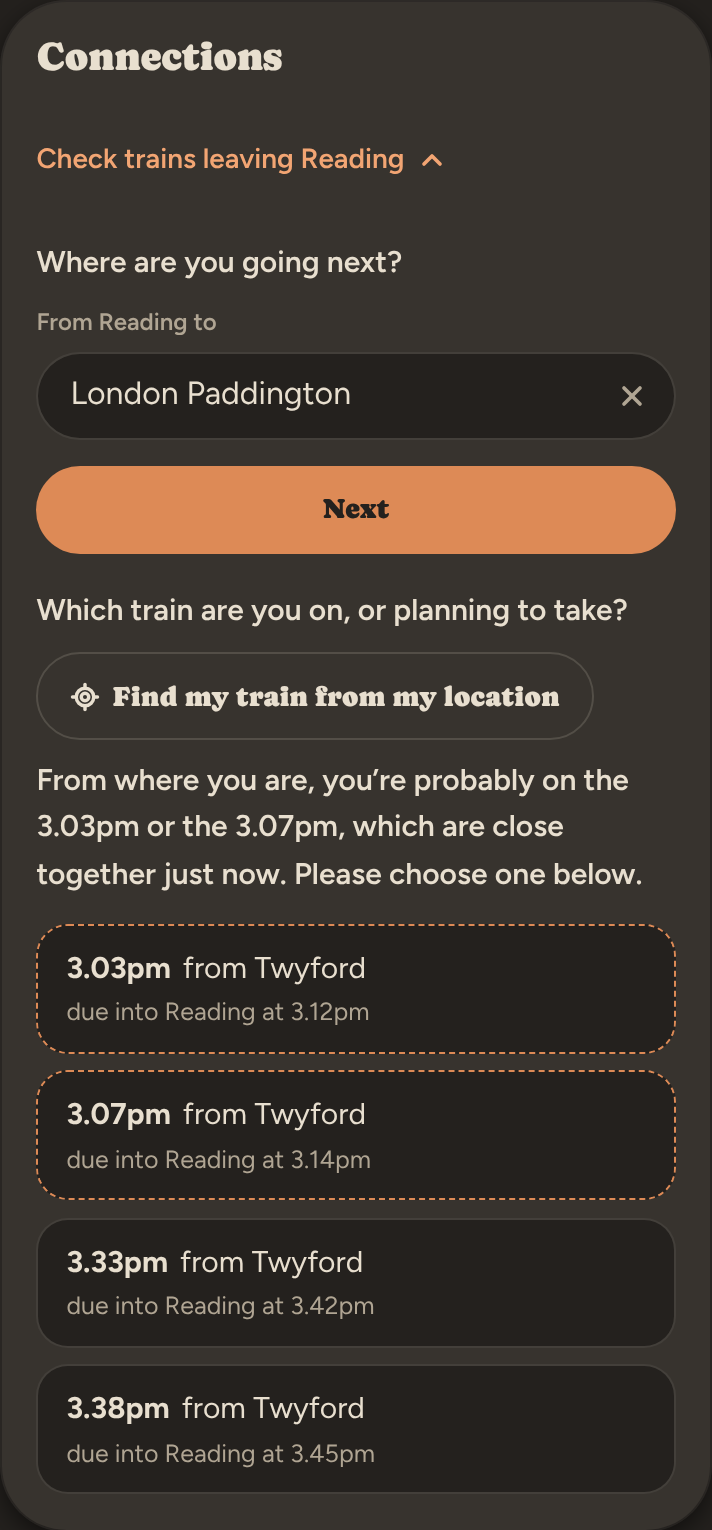
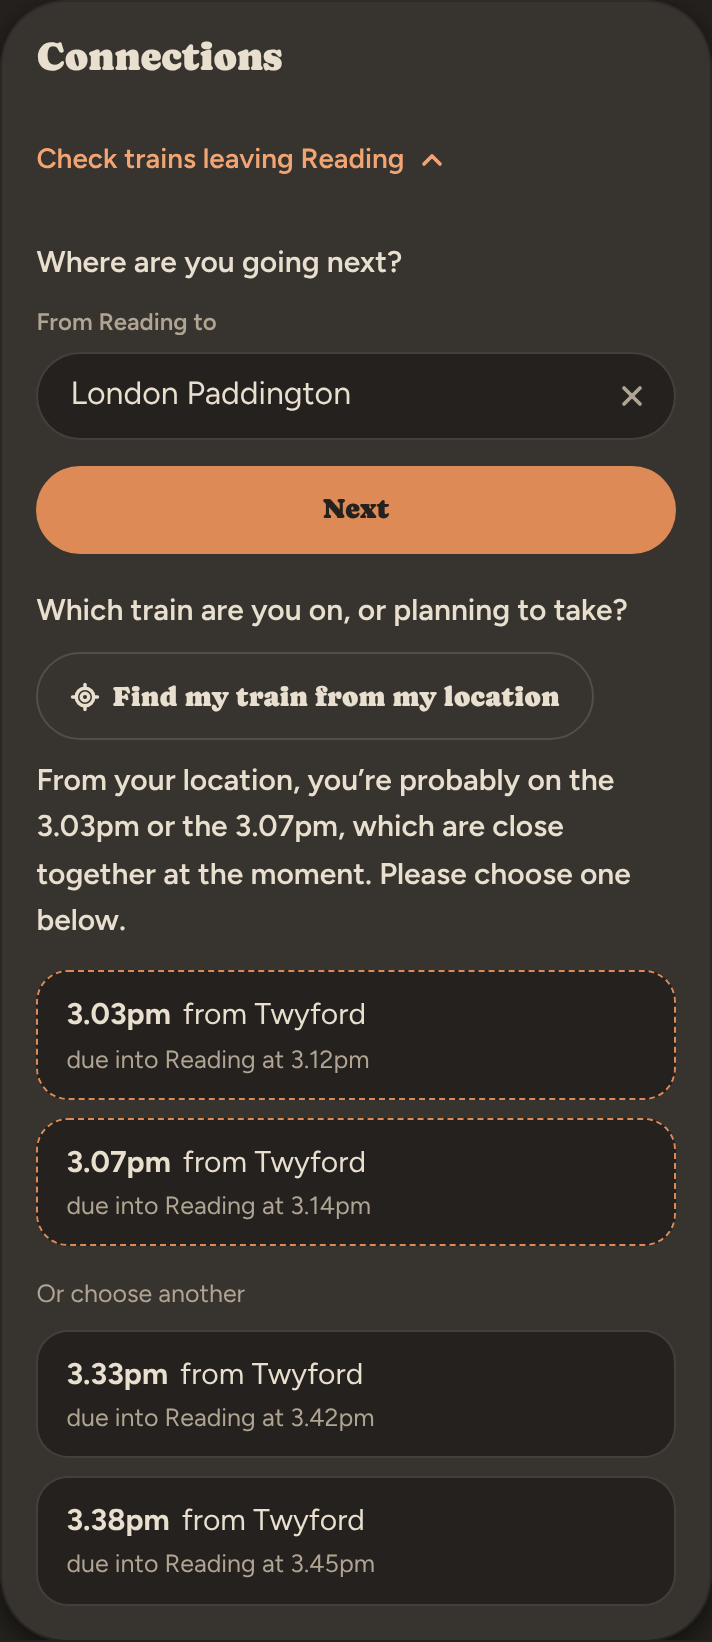
"Find my train from my location": John's wording, the trains found listed first, an About paragraph
Claude-Session: https://claude.ai/code/session_01BsvHLJXmw3oprEBv3k7dfG

diff --git a/src/components/FindMyTrain.tsx b/src/components/FindMyTrain.tsx
@@ -2,7 +2,9 @@
 // button at the top of the train list in Connections and Exits that narrows down which train
 // you're on. The sums are in lib/findTrain.ts; your position is used only here, on the device,
 // and never sent anywhere. Shown only when at least one train in the list has left A (where none
-// has, where you are can't tell them apart). The wording here is Claude's draft, for John.
+// has, where you are can't tell them apart). The wording: Claude's drafts with John's changes
+// (November 26th 2026; design/find-my-train/README.md). The trains found are moved to the top of
+// the list, with "Or choose another" above the rest (John).
 import { useState } from 'react'
 import { diff, isTime, type Analysis, type Service } from '../lib/analyse.ts'
 import { findTrain, ukMinutes, type Found, type Positions } from '../lib/findTrain.ts'
@@ -23,19 +25,19 @@ const gone = (now: string, t: Service) => t.etd !== 'Delayed' && diff(now, isTim
 function said(st: State, a: Analysis, trains: Service[]): string | null {
   const time = (id: string | null) => t12(trains.find((t) => t.id === id)?.std ?? '')
   if (st.s === 'denied') return 'Trainchecker wasn’t allowed to see where you are. You can change that in your browser’s settings, or choose your train below.'
-  if (st.s === 'lost') return 'Your location couldn’t be found just now. Please try again, or choose your train below.'
+  if (st.s === 'lost') return 'Your location couldn’t be found. Please try again, or choose your train below.'
   if (st.s !== 'done') return null
   const f = st.found
   switch (f.kind) {
-    case 'one': return `From where you are, you’re probably on the ${time(f.id)}.`
+    case 'one': return `From your location, you’re probably on the ${time(f.id)}.`
     case 'two': {
       // In time order, as the list is ("the 3.03pm or the 3.07pm"), not nearer first.
       const [p, q] = [...f.ids].sort((x, y) => diff(trains.find((t) => t.id === y)!.std, trains.find((t) => t.id === x)!.std))
-      return `From where you are, you’re probably on the ${time(p)} or the ${time(q)}, which are close together just now. Please choose one below.`
+      return `From your location, you’re probably on the ${time(p)} or the ${time(q)}, which are close together at the moment. Please choose one below.`
     }
-    case 'atA': return f.next ? `You seem to be at ${a.from} still, so here’s the next train, the ${time(f.next)}.` : `You seem to be at ${a.from} still. Please choose the train you’re planning to take.`
-    case 'far': return `You don’t seem to be near the line from ${a.from} to ${a.to} just now, so please choose your train below.`
-    case 'none': return 'None of these trains seems to be near you just now, so please choose yours below.'
+    case 'atA': return f.next ? `You seem to be at the station still, so here’s the next train, the ${time(f.next)}.` : 'You seem to be at the station still. Please choose the train you’re planning to take.'
+    case 'far': return `You don’t seem to be near the line from ${a.from} to ${a.to} at the moment, so please choose your train below.`
+    case 'none': return 'None of these trains seems to be near you at the moment, so please choose yours below.'
   }
 }
 
@@ -72,7 +74,7 @@ export function FindMyTrain({ a, trains, onFound }: { a: Analysis; trains: Servi
         <Icon name="locate" /> Find my train from my location
       </button>
       {st.s === 'idle' && <p className="small muted">Your location stays on this device.</p>}
-      {st.s === 'busy' && <p className="small muted" role="status"><span className="spinner" aria-hidden="true"></span>Finding where you are…</p>}
+      {st.s === 'busy' && <p className="small muted" role="status"><span className="spinner" aria-hidden="true"></span>Finding your location…</p>}
       {text && <p className="findme-said" role="status">{text}</p>}
     </div>
   )

diff --git a/src/components/Connection.tsx b/src/components/Connection.tsx
@@ -124,7 +124,23 @@ export function Connection({ a }: { a: Analysis }) {
       )}
     </div>
   )
-  const after = rowEnd(mines.findIndex(({ m }) => m.id === mineId), cols, mines.length)
+  // The trains "Find my train from my location" found go first, with "Or choose another" above the
+  // rest (John, November 26th 2026); each list puts the answer under its own row.
+  const found = mines.filter(({ s }) => near.includes(s.id))
+  const rest = mines.filter(({ s }) => !near.includes(s.id))
+  const list = (l: typeof mines) => {
+    const after = rowEnd(l.findIndex(({ m }) => m.id === mineId), cols, l.length)
+    return l.map(({ s, m }, i) => (
+      <Fragment key={m.id}>
+        <button type="button" className={`cmine${m.id === mineId ? ' on' : ''}${near.includes(s.id) ? ' near' : ''}`} aria-pressed={m.id === mineId}
+          onClick={() => { if (m.id !== mineId) { setResult({ s: 'idle' }); setChosen(null) } setMineId(m.id) }}>
+          <b>{t12(s.std)}</b> from {a.from}
+          <span className="muted small">{!m.exp ? 'delayed, no time given yet' : m.arrived ? `got in at ${t12(m.exp)}` : m.lateBy >= 1 ? `now expected into ${a.to} at ${t12(m.exp)}` : `due into ${a.to} at ${t12(m.exp)}`}</span>
+        </button>
+        {i === after && reply}
+      </Fragment>
+    ))
+  }
 
   return (
     <section className="card sec block connect">
@@ -146,18 +162,9 @@ export function Connection({ a }: { a: Analysis }) {
             const m = mines.find(({ s }) => s.id === pick)?.m
             if (m) { if (m.id !== mineId) { setResult({ s: 'idle' }); setChosen(null) } setMineId(m.id) }
           }} />
-          <div className="cmines" ref={grid} role="group" aria-label={`Trains from ${a.from}`}>
-            {mines.map(({ s, m }, i) => (
-              <Fragment key={m.id}>
-                <button type="button" className={`cmine${m.id === mineId ? ' on' : ''}${near.includes(s.id) ? ' near' : ''}`} aria-pressed={m.id === mineId}
-                  onClick={() => { if (m.id !== mineId) { setResult({ s: 'idle' }); setChosen(null) } setMineId(m.id) }}>
-                  <b>{t12(s.std)}</b> from {a.from}
-                  <span className="muted small">{!m.exp ? 'delayed, no time given yet' : m.arrived ? `got in at ${t12(m.exp)}` : m.lateBy >= 1 ? `now expected into ${a.to} at ${t12(m.exp)}` : `due into ${a.to} at ${t12(m.exp)}`}</span>
-                </button>
-                {i === after && reply}
-              </Fragment>
-            ))}
-          </div>
+          {found.length > 0 && <div className="cmines" role="group" aria-label={`Trains near you from ${a.from}`}>{list(found)}</div>}
+          {found.length > 0 && rest.length > 0 && <p className="small muted cor">Or choose another</p>}
+          <div className="cmines" ref={grid} role="group" aria-label={`Trains from ${a.from}`}>{list(rest)}</div>
         </div>
       )}
       </details>

diff --git a/src/components/Exits.tsx b/src/components/Exits.tsx
@@ -65,8 +65,23 @@ export function Exits({ a }: { a: Analysis }) {
       }} />}
     </div>
   )
-  const picked = mines.findIndex(({ m }) => m.id === mineId)
-  const after = rowEnd(picked, cols, mines.length)
+  // The trains "Find my train from my location" found go first, with "Or choose another" above the
+  // rest (John, November 26th 2026); each list puts the answer under its own row.
+  const found = mines.filter(({ s }) => near.includes(s.id))
+  const rest = mines.filter(({ s }) => !near.includes(s.id))
+  const list = (l: typeof mines) => {
+    const after = rowEnd(l.findIndex(({ m }) => m.id === mineId), cols, l.length)
+    return l.map(({ s, m }, i) => (
+      <Fragment key={m.id}>
+        <button type="button" className={`cmine${m.id === mineId ? ' on' : ''}${near.includes(s.id) ? ' near' : ''}`} aria-pressed={m.id === mineId}
+          onClick={() => { if (m.id !== mineId) setGot({ s: 'idle' }); setMineId(m.id) }}>
+          <b>{t12(s.std)}</b> from {a.from}
+          <span className="muted small">{!m.exp ? 'delayed, no time given yet' : m.arrived ? `got in at ${t12(m.exp)}` : `due into ${a.to} at ${t12(m.exp)}`}</span>
+        </button>
+        {i === after && reply}
+      </Fragment>
+    ))
+  }
   return (
     <section className="card sec block exits">
       <h3>{heading(a.to, e)}</h3>
@@ -82,18 +97,9 @@ export function Exits({ a }: { a: Analysis }) {
             const m = mines.find(({ s }) => s.id === pick)?.m
             if (m) { if (m.id !== mineId) setGot({ s: 'idle' }); setMineId(m.id) }
           }} />
-          <div className="cmines" ref={grid} role="group" aria-label={`Trains from ${a.from}`}>
-            {mines.map(({ s, m }, i) => (
-              <Fragment key={m.id}>
-                <button type="button" className={`cmine${m.id === mineId ? ' on' : ''}${near.includes(s.id) ? ' near' : ''}`} aria-pressed={m.id === mineId}
-                  onClick={() => { if (m.id !== mineId) setGot({ s: 'idle' }); setMineId(m.id) }}>
-                  <b>{t12(s.std)}</b> from {a.from}
-                  <span className="muted small">{!m.exp ? 'delayed, no time given yet' : m.arrived ? `got in at ${t12(m.exp)}` : `due into ${a.to} at ${t12(m.exp)}`}</span>
-                </button>
-                {i === after && reply}
-              </Fragment>
-            ))}
-          </div>
+          {found.length > 0 && <div className="cmines" role="group" aria-label={`Trains near you from ${a.from}`}>{list(found)}</div>}
+          {found.length > 0 && rest.length > 0 && <p className="small muted cor">Or choose another</p>}
+          <div className="cmines" ref={grid} role="group" aria-label={`Trains from ${a.from}`}>{list(rest)}</div>
         </div>
         </details>
       )}

diff --git a/src/components/Tail.tsx b/src/components/Tail.tsx
@@ -100,6 +100,8 @@ export function Tail({ about = true, quote = true }: { about?: boolean; quote?: 
           <p>The directions between platforms in the Connections section, and the ways out in the Station exits section, come from <a href="https://www.openstreetmap.org/copyright" target="_blank" rel="noopener noreferrer">OpenStreetMap</a>, with National Rail’s station maps for the larger stations.</p>
           {/* Fact of the journey (Claude's draft, with John's changes, November 22nd 2026). */}
           <p>The Fact of the Journey is something near one stretch of line between two stations on your journey, picked at random each time you visit. Left and right are as the train is going. Facing backwards? Look the other way. The stretches of line come from OpenStreetMap; the facts were checked against Historic England’s list of historic places, Wikipedia and other sources (contains Historic England data © Historic England 2026).</p>
+          {/* Find my train from my location (Claude's draft, November 26th 2026). */}
+          <p>Find my train from my location, in the Connections and Exits sections, uses your device’s location only when you tap it, and only on your device: it isn’t sent to Trainchecker or anyone else. It compares where you are with where each train should be by National Rail’s times, so it can only say which train you’re probably on. The stations’ positions come from National Rail, and from OpenStreetMap where the two differ.</p>
         </section>
       )}
       <footer className="footer-notice">

diff --git a/src/styles/global.css b/src/styles/global.css
@@ -320,6 +320,7 @@ details.trains-fold { margin-top: var(--space-3); }
 .findme p { margin: var(--space-2) 0 0; }
 .findme .findme-said { font-weight: 600; }
 .connect .cmine.near:not(.on), .exits .cmine.near:not(.on) { border: 1px dashed var(--color-accent); }
+.connect .cor, .exits .cor { margin: var(--space-3) 0 var(--space-2); }
 .connect .canswer { margin: 0 0 var(--space-3); background: var(--color-bg); }
 /* Station exits' answer (November 22nd 2026): a quiet box, as Connections' answer without its coloured edge. */
 .tap-reply { grid-column: 1 / -1; }

diff --git a/design/find-my-train/README.md b/design/find-my-train/README.md
@@ -91,25 +91,33 @@ and works out the answer. With one train, that train is chosen, as if tapped, an
 appears under it. With two, both are edged in a dashed accent line and you choose. Still at A,
 the next train is chosen.
 
-**Wording, all Claude's drafts:**
+**Wording (John's changes, November 26th 2026; 2, 6 and the About paragraph are Claude's drafts):**
 
 1. The button: "Find my train from my location" (John's).
-2. Under it before tapping: "Your location stays on this device."
-3. While finding: "Finding where you are…"
-4. One: "From where you are, you’re probably on the 5.53pm."
-5. Two: "From where you are, you’re probably on the 8.42pm or the 8.47pm, which are close
-   together just now. Please choose one below." (In time order.)
-6. At A: "You seem to be at Reading still, so here’s the next train, the 9pm." (With no train
-   still to leave: "You seem to be at Reading still. Please choose the train you’re planning to
-   take.")
-7. Off the line: "You don’t seem to be near the line from Reading to London Paddington just now,
-   so please choose your train below."
-8. No train near: "None of these trains seems to be near you just now, so please choose yours
-   below."
+2. Under it before tapping: "Your location stays on this device." (agreed)
+3. While finding: "Finding your location…" (John)
+4. One: "From your location, you’re probably on the 5.53pm." (John)
+5. Two: "From your location, you’re probably on the 8.42pm or the 8.47pm, which are close
+   together at the moment. Please choose one below." (In time order.) The trains found are moved to
+   the top of the list, with "Or choose another" above the rest (John); Claude did the same for one
+   train and for the next train at A, so the answer is never out of sight further down.
+6. At A: "You seem to be at the station still, so here’s the next train, the 9pm." (John: delete
+   "Reading"; "the station" is Claude's reading of that.) With no train still to leave: "You seem
+   to be at the station still. Please choose the train you’re planning to take."
+7. Off the line: "You don’t seem to be near the line from Reading to London Paddington at the
+   moment, so please choose your train below." (John)
+8. No train near: "None of these trains seems to be near you at the moment, so please choose yours
+   below." (John)
 9. Not allowed: "Trainchecker wasn’t allowed to see where you are. You can change that in your
-   browser’s settings, or choose your train below."
-10. No location found: "Your location couldn’t be found just now. Please try again, or choose
-    your train below."
+   browser’s settings, or choose your train below." (agreed)
+10. No location found: "Your location couldn’t be found. Please try again, or choose your train
+    below." (John: "just now" deleted; the second sentence kept, to confirm.)
+
+About these figures (Claude's draft, John asked for one): "Find my train from my location, in the
+Connections and Exits sections, uses your device’s location only when you tap it, and only on your
+device: it isn’t sent to Trainchecker or anyone else. It compares where you are with where each
+train should be by National Rail’s times, so it can only say which train you’re probably on. The
+stations’ positions come from National Rail, and from OpenStreetMap where the two differ."
 
 **Found while taking the pictures:** at 2.55pm on Twyford to Reading no train had left Twyford,
 so the button rightly stays hidden; the Connections pictures set the clock to 3.11pm
@@ -117,5 +125,4 @@ so the button rightly stays hidden; the Connections pictures set the clock to 3.
 give "one of these two" there. The saved boards predate the arrival board, so for Exits the
 pictures make one up from the departures (illustration only).
 
-**Not done yet:** About doesn't mention it (it says nothing is sent; the location isn't either,
-but a sentence about it may be wanted); not tried on a real phone or on a real train.
+**Not done yet:** tried on a real phone on a real train (John, on a journey on November 26th).

diff --git a/CLAUDE.md b/CLAUDE.md
@@ -74,6 +74,15 @@ given its own branch). Before committing there, run
 
 ## Log
 
+### November 26th 2026: "Find my train from my location": John's wording, found trains first, About (branch `claude/happy-darwin-mmnd4m`, not merged; Claude Code)
+
+- **John:** "This looks great"; wording changes ("From your location", "at the moment", "Finding your location…", no
+  station name at A, "Your location couldn’t be found."); the trains found listed first with "Or choose another" above
+  the rest (also done for one train and the next at A: Claude's choice, told to John); an About paragraph (Claude's
+  draft, in `Tail.tsx`). All in `design/find-my-train/README.md`. He'll try it on his phone on a journey within the hour.
+- **Checked:** all checks (check-find 76), `tsc -b`, lint, build; every answer again in the browser (`shoot.mjs`):
+  the wording, the found trains first, no errors, no sideways scroll, button 44px. Not checked: a real phone or train.
+
 ### November 26th 2026: "Find my train from my location" on the page, for John (branch `claude/happy-darwin-mmnd4m`, not merged; Claude Code)
 
 - **John:** carry on to mock-ups. Built into the page: `src/components/FindMyTrain.tsx` in Connections and Exits,
